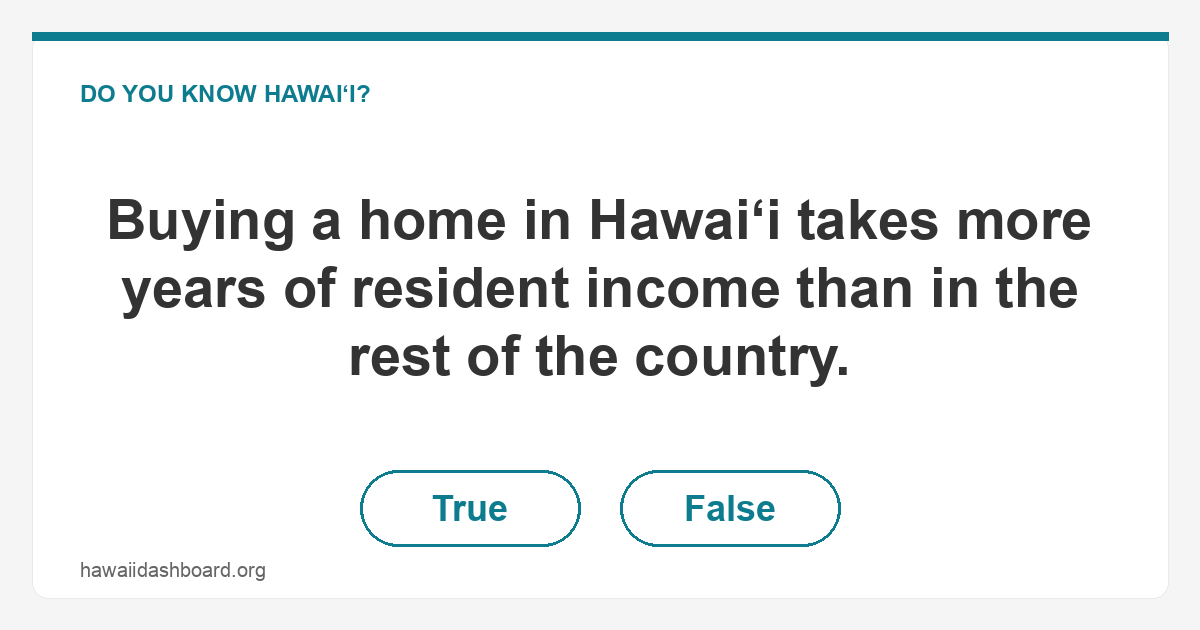
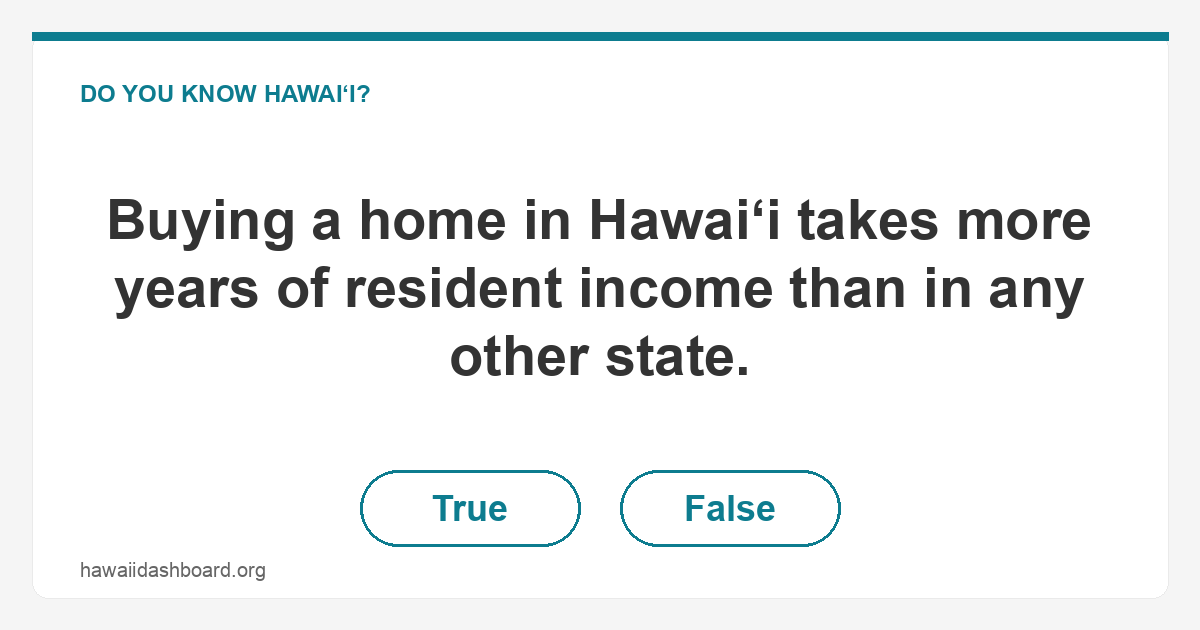
QOTD q009: 'rest of the country' → 'any other state' (rank #1)

Changed region(s): [[0.0925, 0.4222, 0.8942, 0.6032]]

diff --git a/q/q009/index.html b/q/q009/index.html
@@ -13,7 +13,7 @@
   <meta name="twitter:card" content="summary_large_image">
   <meta name="twitter:title" content="Do you know Hawaiʻi?">
   <meta name="twitter:image" content="https://hawaiidashboard.org/assets/og/q/buying-a-home-in-hawaii-costs-more-compared-to-income-than-rest-of-country.png">
-  <meta name="description" content="Buying a home in Hawaiʻi takes more years of resident income than in the rest of the country.">
+  <meta name="description" content="Buying a home in Hawaiʻi takes more years of resident income than in any other state.">
   <link rel="canonical" href="https://hawaiidashboard.org/q/q009/">
   <script>window.location.replace("/?from_q=q009");</script>
   <meta http-equiv="refresh" content="0;url=https://hawaiidashboard.org/?from_q=q009">

diff --git a/js/questions.js b/js/questions.js
@@ -33,7 +33,7 @@ const QOTD_QUESTIONS = [
   {
     "id": "q009",
     "slug": "buying-a-home-in-hawaii-costs-more-compared-to-income-than-rest-of-country",
-    "claim": "Buying a home in Hawaiʻi takes more years of resident income than in the rest of the country.",
+    "claim": "Buying a home in Hawaiʻi takes more years of resident income than in any other state.",
     "correct": true,
     "answer": "In 2024, Hawaiʻi was 8.7x versus the median of 4.2x.",
     "chartUrl": "/r/home_price_to_income/",
